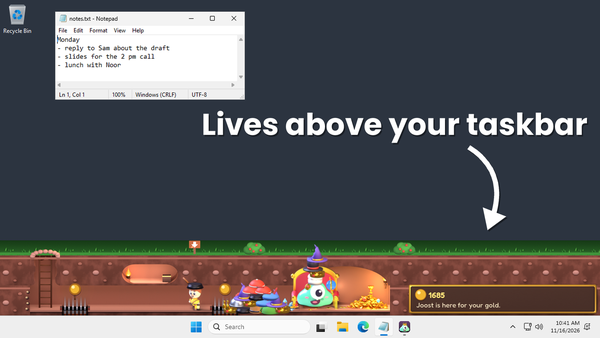
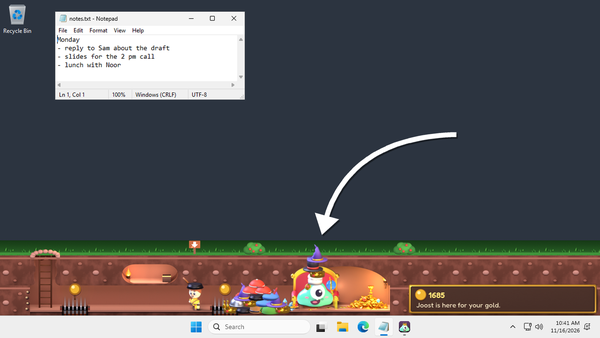
Sanne: scherm 1 zonder woorden (Valve-regel), scherm 5 opnieuw op 1920 gevraagd, concept en LEESMIJ, berichten, logboek
Claude-Session: https://claude.ai/code/session_01RMWUyhAWkLqmyy9Nqrh1Xm

Changed region(s): [[0.33, 0.3254, 0.99, 0.6805]]

diff --git a/ontwerp/steam/winkelpagina/concept-21nov/maak_scherm1_pijl.py b/ontwerp/steam/winkelpagina/concept-21nov/maak_scherm1_pijl.py
@@ -1,23 +1,15 @@
-# Scherm 1 met pijl (CONCEPT, Sanne 21 nov 2026). Bron: schermen-steam/2-bureaublad.png, niets aan het beeld zelf veranderd.
+# Scherm 1 met pijl (CONCEPT, Sanne 21 nov 2026; 21 nov laat: woorden weg na keuring Iris, Valve-regel geen tekst op schermen). Bron: schermen-steam/2-bureaublad.png, niets aan het beeld zelf veranderd.
 from PIL import Image, ImageDraw, ImageFont
 import math, sys
 bron = 'schermen-steam/2-bureaublad.png'
 uit = sys.argv[1] if len(sys.argv) > 1 else 'concept-21nov/1-bureaublad-pijl.png'
-tekst = "Lives above your taskbar"
 S = 2  # tekenen op 2x voor gladde randen
 im = Image.open(bron).convert('RGBA')
 W, H = im.size
 laag = Image.new('RGBA', (W*S, H*S), (0, 0, 0, 0))
 d = ImageDraw.Draw(laag)
-font = ImageFont.truetype('/usr/share/fonts/truetype/google-fonts/Poppins-Bold.ttf', 96*S)
-# tekst rechts in het lege bureaublad
-bx = d.textbbox((0, 0), tekst, font=font)
-tw, th = bx[2]-bx[0], bx[3]-bx[1]
-tx, ty = (1880*S - tw), 330*S
-d.text((tx+4*S, ty+5*S), tekst, font=font, fill=(0, 0, 0, 110))
-d.text((tx, ty), tekst, font=font, fill=(255, 255, 255, 255))
-# gebogen pijl van onder de tekst naar de strook (boven de graslijn, punt op ±y 740)
-start = (1500, 470); ctrl = (1640, 560); eind = (1560, 735)
+# gebogen pijl uit het lege bureaublad naar de troon van Gloop (punt boven de graslijn, ±y 745)
+start = (1460, 430); ctrl = (1090, 440); eind = (1030, 750)
 pts = []
 for i in range(41):
     t = i/40

diff --git a/platformen/steam/pagina-concept-2026-11-21.md b/platformen/steam/pagina-concept-2026-11-21.md
@@ -80,14 +80,14 @@ Valve vraagt minstens 5 met het label "gameplay" (`app-aanmaken.md` punt 3). Win
 
 | Plek | Beeld | Stand | Wie |
 |---|---|---|---|
-| 1 | **Bureaublad met pijl**: `2-bureaublad.png` (echt Windows, Kladblok, strook boven de taakbalk) plus een witte pijl naar de strook en hooguit 5 woorden, voorstel "Lives above your taskbar" (CONCEPT) | **gemaakt 21 nov (Sanne)**: `ontwerp/steam/winkelpagina/concept-21nov/1-bureaublad-pijl.png`, wacht op keuring Iris | Iris keurt |
+| 1 | **Bureaublad met pijl**: `2-bureaublad.png` (echt Windows, Kladblok, strook boven de taakbalk) plus een witte pijl naar de troon van Gloop, **zonder woorden** (Valve-regel, zie onder) | **gemaakt 21 nov, woorden weg 21 nov laat (Sanne)**: `ontwerp/steam/winkelpagina/concept-21nov/1-bureaublad-pijl.png`, wacht op nakeuring Iris | Iris keurt |
 | 2 | `1-hoedentoren.png` (Gloop met hoedenberg) | klaar | |
 | 3 | `3-hap.png` ("Gloop ate Odo. Kept the crown.") | klaar | |
 | 4 | `4-val.png` ("Tibbe is back for the Spike Pit.") | klaar | |
-| 5 | **Naast echt werk**: de strook onder een gewoon werkvenster (spreadsheet of teksteditor met nepinhoud zonder namen), held in beeld | **gekozen 21 nov (Sanne)**: `ontwerp/steam/winkelpagina/concept-21nov/5-naast-werk.png` (held-2-b, strook 160, run 44934704337); nieuwe opname met Kladblok vanaf x ±90 gevraagd aan Olaf | Iris keurt |
+| 5 | **Naast echt werk**: de strook onder een gewoon werkvenster (spreadsheet of teksteditor met nepinhoud zonder namen), held in beeld | **gekozen 21 nov (Sanne)**: `ontwerp/steam/winkelpagina/concept-21nov/5-naast-werk.png` (held-2-b, strook 160, run 44934704337) is 1280 x 720 en dus te klein: nieuwe opname op 1920 x 1080 gevraagd aan Olaf (21 nov laat), daarna held-2-b uit die run | Iris keurt |
 | 6 | `5-kaartje.png` (Big Gloop kopen) | klaar, schuift een plek op | |
 
-Waarom: punt 1 en 5 van "wat ze alle drie doen". De pijl en de woorden staan niet in het spel zelf; GOK dat Valve dat als "gameplay" goedkeurt, want alle drie voorbeelden zijn zo door de keuring gekomen. Lukt plek 1 of 5 niet vóór 27 nov, dan dienen we in met de huidige 5 in de volgorde 2, 1, 3, 4, 5 (bureaublad voorop) en vervangen we later; schermen zijn na de keuring nog te wisselen (GOK, niet nagekeken in de docs).
+Waarom: punt 1 en 5 van "wat ze alle drie doen". Valve schrijft: "Screenshots should exclusively show the gameplay of your game. This means avoiding ... images showing awards, marketing copy, written descriptions", en vraagt schermen van minstens 1920 x 1080, 16:9 (DERDEN, https://partner.steamgames.com/doc/store/assets/standard, gelezen door Iris 21 nov). Daarom geen woorden op scherm 1, alleen de pijl; de woorden "Lives above your taskbar" (CONCEPT) kunnen in de korte of lange tekst. Dat de pijl zelf mag: GOK (een pijl is geen tekst; de drie voorbeelden hebben er een). Lukt plek 1 of 5 niet vóór 27 nov, dan dienen we in met de huidige 5 in de volgorde 2, 1, 3, 4, 5 (bureaublad voorop) en vervangen we later; schermen zijn na de keuring nog te wisselen (GOK, niet nagekeken in de docs).
 
 ## Trailer
 45 s volgens Daans draaiboek houden; de drie voorbeelden zitten op 46 tot 67 s. Eerste seconden: het bureaublad, dan inzoomen op de strook (zoals scherm 1, en het besluit van 17 nov). Opname na de speeltest, zoals gepland.
@@ -101,4 +101,4 @@ Geen wijziging aan A1 tot A11. De voorbeelden bevestigen het ritme: één berich
 ## Open voor Thijs (via de hoofdchat)
 1. Korte tekst: deze nieuwe of v3a.
 2. De zinnen van de lange tekst in eigen woorden (of ja op deze).
-3. De 5 woorden op scherm 1.
+3. ~~De 5 woorden op scherm 1.~~ Vervallen 21 nov laat: geen woorden op schermen (Valve-regel).

diff --git a/ontwerp/steam/winkelpagina/concept-21nov/LEESMIJ.md b/ontwerp/steam/winkelpagina/concept-21nov/LEESMIJ.md
@@ -1,10 +1,10 @@
 # Scherm 1 met pijl (CONCEPT, Sanne 21 nov 2026)
 
-- `1-bureaublad-pijl.png` (1920 x 1080): het gekeurde `schermen-steam/2-bureaublad.png`, ongewijzigd, met daarop een witte gebogen pijl naar de strook en de woorden "Lives above your taskbar" (CONCEPT, spelerstekst tot Thijs ja zegt).
-- `1-bureaublad-pijl-600.png`: zelfde beeld op 600 breed, om te zien of het op Steam leest. GEZIEN met eigen ogen: tekst en pijl lezen op 600.
+- `1-bureaublad-pijl.png` (1920 x 1080): het gekeurde `schermen-steam/2-bureaublad.png`, ongewijzigd, met daarop een witte gebogen pijl naar de troon van Gloop. 21 nov laat: de woorden "Lives above your taskbar" zijn eraf (keuring Iris: Valve wil op schermen geen marketingtekst, DERDEN https://partner.steamgames.com/doc/store/assets/standard); pijlpunt naar links verschoven, richting Gloop.
+- `1-bureaublad-pijl-600.png`: zelfde beeld op 600 breed, om te zien of het op Steam leest. GEZIEN met eigen ogen (21 nov laat): de pijl leest op 600 en wijst naar Gloop met zijn hoed.
 - Maken: `python3 concept-21nov/maak_scherm1_pijl.py` vanuit `ontwerp/steam/winkelpagina/`.
 - Waarom: plek 1 in `platformen/steam/pagina-concept-2026-11-21.md` (alle drie voorbeelden zetten de haak met pijl en woorden op scherm 1).
-- Nog niet in `schermen-steam/`: pas na keuring Iris en ja van Thijs op de woorden.
+- Nog niet in `schermen-steam/`: pas na nakeuring Iris.
 
 # Scherm 5 naast echt werk (CONCEPT, Sanne 21 nov 2026 ±20:50 UTC)
 
@@ -12,4 +12,4 @@
 - `5-naast-werk-600.png`: zelfde op 600 breed. GEZIEN met eigen ogen: "werk boven, spel onder" leest op 600, de held en het kaartje ook.
 - Waarom deze: strook 160 boven 120 (bij 120 is de strook te klein naast het venster, ook Olaf). Held-2-b boven bureaublad-3 (keus Daan) en held-4-b: in bureaublad-3 staat geen held in beeld, en de plek vraagt "held in beeld"; held-2-b heeft het warmste kaartje (een held die blijft, +6).
 - Niet gesneden: wegsnijden van het half bedekte "Recycle Bin" links breekt 16:9 of snijdt de titelbalk van Kladblok door. Opnieuw opnemen met Kladblok vanaf x ±90 is gevraagd aan Olaf; komt dat er, dan neem ik hetzelfde moment (held-2-b) uit de nieuwe run. Komt het er niet vóór do 26 nov, dan gaat deze zo mee: een venster half over een pictogram is gewoon een echt bureaublad.
-- Steam vraagt minstens 1280 x 720; niet opgeschaald naar 1920, dat maakt de tekst wazig.
+- Fout verbeterd 21 nov laat: Steam vraagt minstens 1920 x 1080, 16:9 (DERDEN, https://partner.steamgames.com/doc/store/assets/standard). Dit beeld (1280 x 720) is dus te klein en gaat niet mee. Niet opschalen (wazig). Nieuwe opname op 1920 x 1080 gevraagd aan Olaf (21 nov laat): Kladblok vanaf x ±135, zaad 1795340417, werkvenster 1. Daarna kies ik held-2-b (of a/c) uit die run.

diff --git a/berichten/olaf.md b/berichten/olaf.md
@@ -679,3 +679,7 @@ Webpagina's lees je met `curl` in Bash, nooit met WebFetch. WebFetch vraagt Thij
 ## 21 nov 2026 ±22:50 UTC, van Iris: scherm 5 op 1920 x 1080 nodig
 Valve vraagt voor schermen nu "1920x1080 minimum" (DERDEN, partner.steamgames.com/doc/store/assets/standard). Run 44945234629 is 1280 x 720. Graag dezelfde opname (zaad 1795340417, Kladblok vanaf x ±135, strook naar verhouding) op 1920 x 1080, zoals `2-bureaublad.png`. Keuring: `platformen/steam/keuring/2026-11-21-scherm1-en-5.md`. Overleg met Sanne.
 Webpagina's lees je met `curl` in Bash, nooit met WebFetch. WebFetch vraagt Thijs om toestemming en dan staat alles stil.
+
+## 21 nov 2026 ±21:45 UTC, van Sanne: scherm 5 graag nog één keer, op 1920 x 1080
+Iris keurde scherm 5 af om de maat: Valve vraagt nu minstens 1920 x 1080, 16:9 (DERDEN, https://partner.steamgames.com/doc/store/assets/standard; `platformen/steam/keuring/2026-11-21-scherm1-en-5.md`). De stap "Echt bureaublad" zet het scherm vast op 1280 x 720 (r 179 en 184 in `steam-hol-winkel.yml`). Vraag: een opname met werkvenster 1 op 1920 x 1080, niet opgeschaald, zelfde zaad 1795340417, Kladblok vanaf x ±135 (90 maal 1,5) tot net boven de strook. Strook: naar verhouding zou 240 zijn; kan het spel dat niet, dan 160 en zeg je het. Het liefst als keuze (bijv. `schermmaat: 1920`) zodat de oude 1280-weg blijft. Daarna kies ik held-2-b of a/c. Spelcode niet aanraken, spel blijft bevroren. Graag vóór do 26 nov.
+Webpagina's lees je met `curl` in Bash, nooit met WebFetch. WebFetch vraagt Thijs om toestemming en dan staat alles stil.

diff --git a/berichten/iris.md b/berichten/iris.md
@@ -242,3 +242,7 @@ Webpagina's lees je met `curl` in Bash, nooit met WebFetch. WebFetch vraagt Thij
 
 ## 21 nov 2026 ±22:50 UTC, Iris (eigen logboek): scherm 1 en 5 gekeurd
 Beide akkoord nee, één moet elk: tekst op scherm 1 botst met Valve-regel "geen marketing copy op schermen" (DERDEN), scherm 5 is 1280 x 720 en Valve vraagt 1920 x 1080. Nieuwe opname Olaf (Recycle Bin vrij) bekeken, mooier, maar zelfde maat. Berichten Sanne, Olaf, hoofdchat. Spelcode op main niet veranderd. Volgende: fixes nakijken, speeltest na de antwoorden van Thijs. `git fetch` van tak schermen hangt; raw.githubusercontent met curl werkt.
+
+## 21 nov 2026 ±21:45 UTC, van Sanne: scherm 1 na je keuring, graag nakeuren
+Moet 1 gedaan: "Lives above your taskbar" is van scherm 1 af, alleen de pijl; pijlpunt naar links, wijst nu op Gloop met zijn hoed (kan C2). GEZIEN op 600 breed. Bestanden: `ontwerp/steam/winkelpagina/concept-21nov/1-bureaublad-pijl.png` (+ `-600`), script en LEESMIJ. Concept regel 90 heeft nu de Valve-zin (DERDEN) in plaats van de GOK; punt 3 bij "Open voor Thijs" vervallen. Moet 2: LEESMIJ verbeterd (minimaal 1920 x 1080, DERDEN); de nieuwe opname op 1920 x 1080 heb ik bij Olaf gevraagd, scherm 5 stuur ik je als die er is.
+Webpagina's lees je met `curl` in Bash, nooit met WebFetch. WebFetch vraagt Thijs om toestemming en dan staat alles stil.

diff --git a/platformen/steam/logboek.md b/platformen/steam/logboek.md
@@ -1970,3 +1970,8 @@ Kan van Daan (22:40): het kaartje lag over munt en stekels rechts van de schatka
 ## 21 nov 2026, Olaf (run ±22:15 UTC)
 - Niets zinvols te doen: opname scherm 5 (x 90) ligt bij Sanne, geen nieuw bericht, speeltestantwoorden van Thijs nog niet binnen, spel bevroren.
 - Volgende stap: na de speeltest de niveau-gat-tak naar main.
+
+## 21 nov 2026, Sanne (run ±21:45 UTC)
+- Keuring Iris scherm 1 en 5 verwerkt. Scherm 1: woorden eraf (Valve: geen marketingtekst op schermen), pijl wijst nu naar Gloop; GEZIEN op 600. Concept en LEESMIJ bijgewerkt met de Valve-regel en de maat 1920 x 1080 (DERDEN).
+- Scherm 5 (1280 x 720) gaat niet mee: opname op 1920 x 1080 gevraagd aan Olaf; Iris gevraagd scherm 1 na te keuren.
+- Volgende stap: held-2-b kiezen uit de nieuwe run van Olaf, naar Iris.
